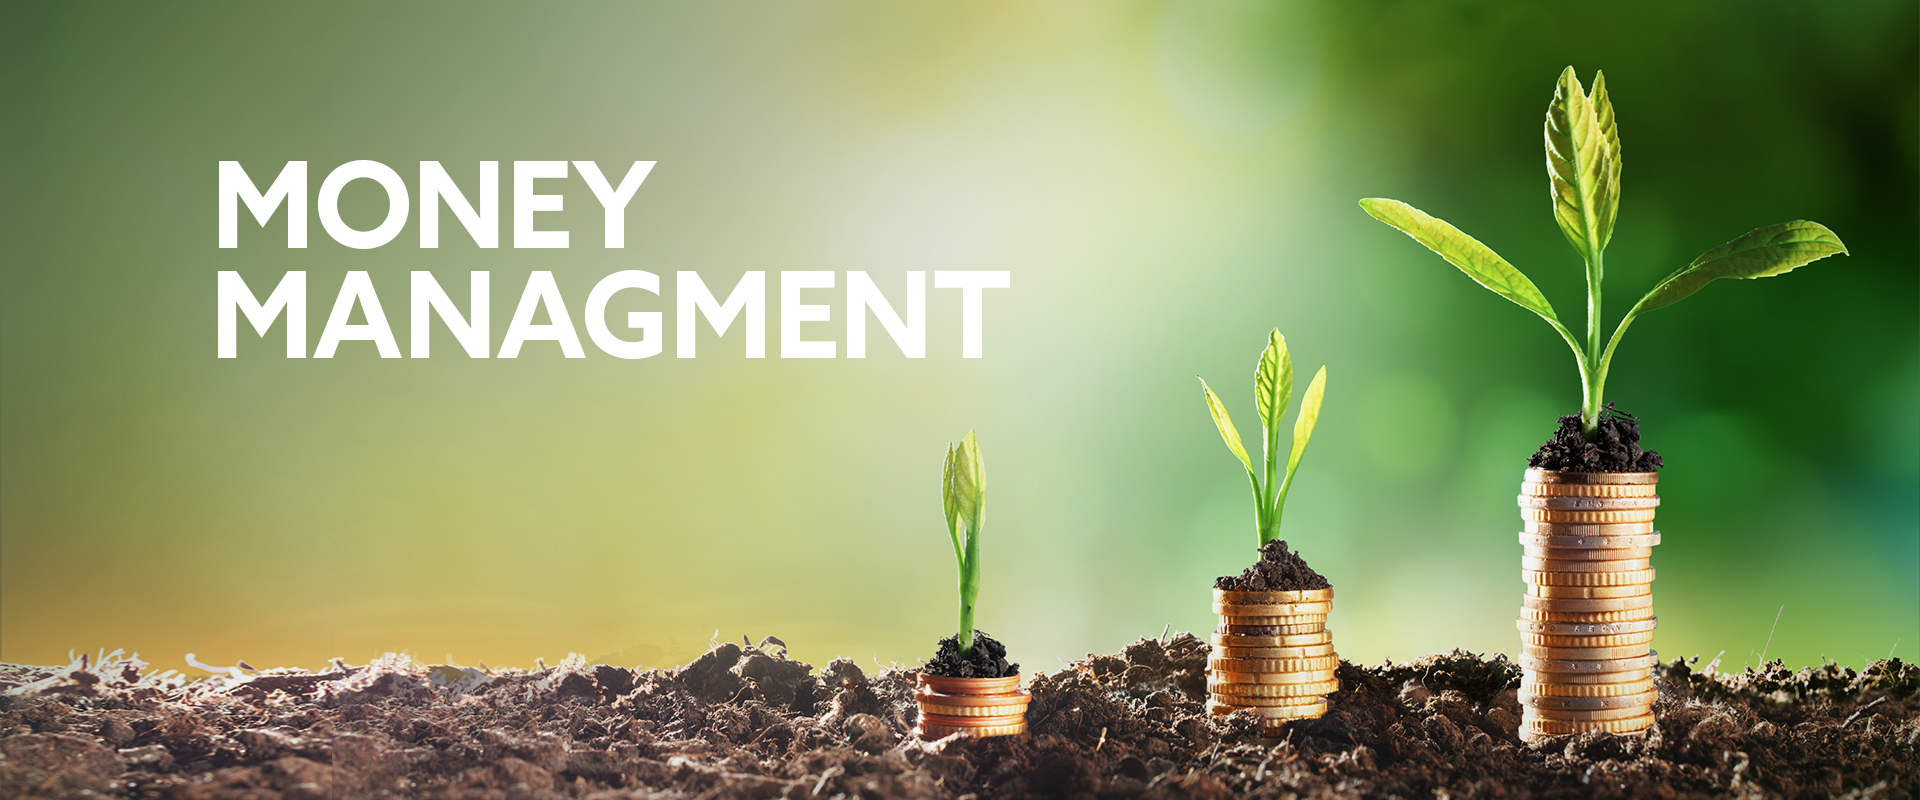
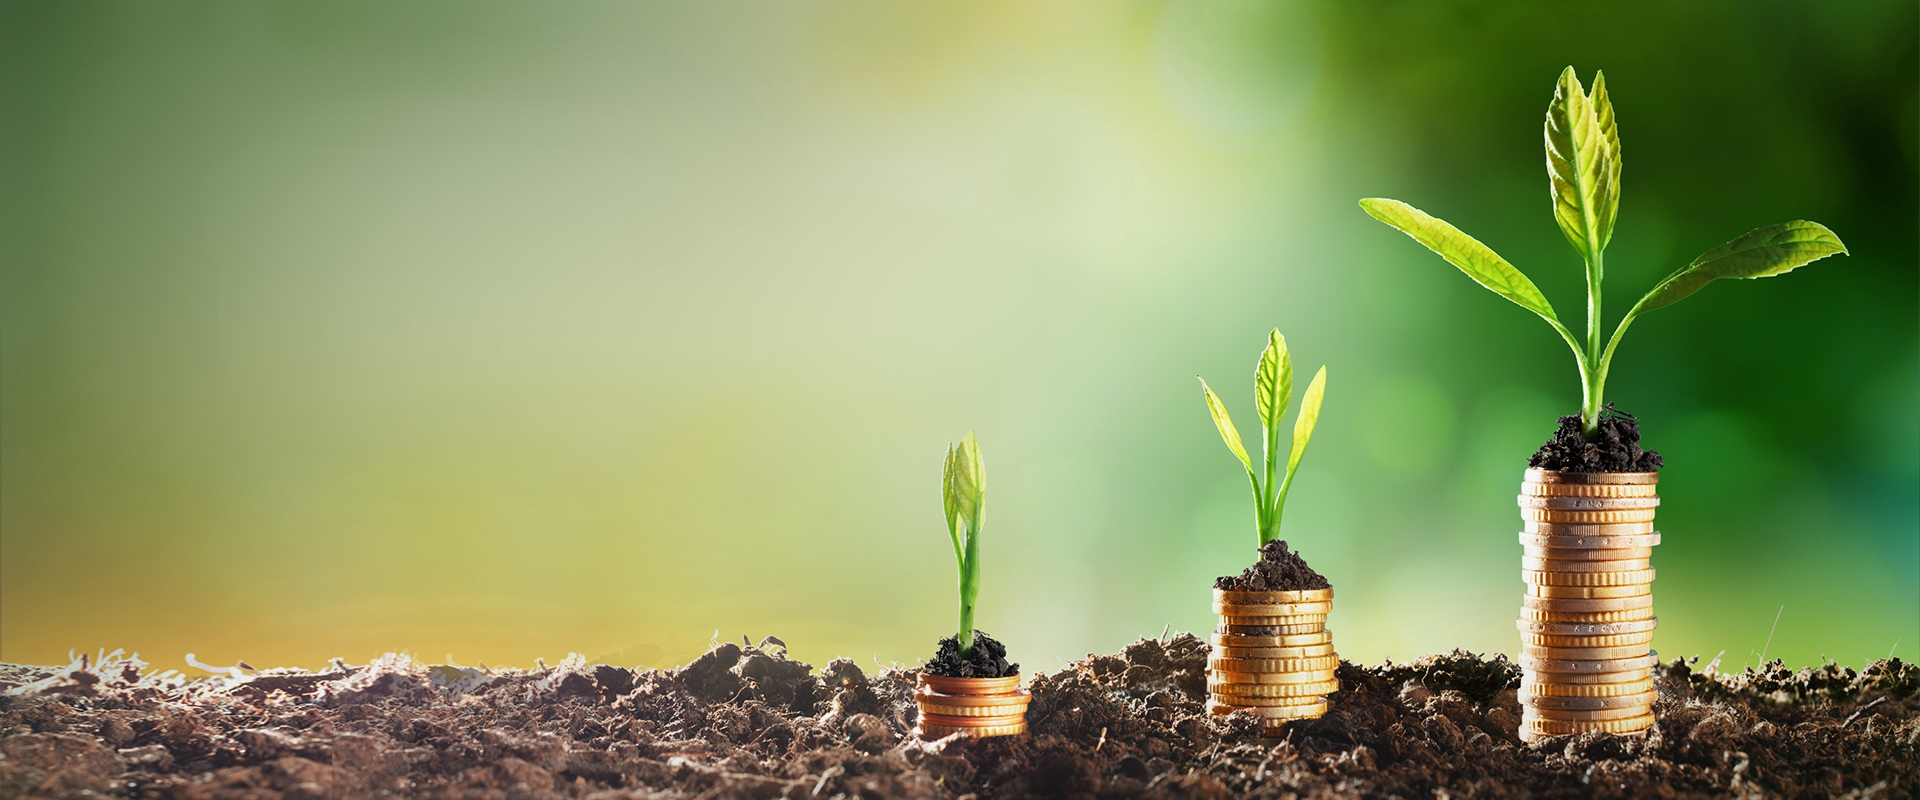
nav view, started home view

diff --git a/public/index.html b/public/index.html
@@ -1,40 +1,19 @@
 <!DOCTYPE html>
 <html lang="en">
-  <head>
-    <meta charset="utf-8">
-    <meta name="viewport" content="width=device-width, initial-scale=1, shrink-to-fit=no">
-    <meta name="theme-color" content="#000000">
-    <!--
-      manifest.json provides metadata used when your web app is added to the
-      homescreen on Android. See https://developers.google.com/web/fundamentals/engage-and-retain/web-app-manifest/
-    -->
-    <link rel="manifest" href="%PUBLIC_URL%/manifest.json">
-    <link rel="shortcut icon" href="%PUBLIC_URL%/favicon.ico">
-    <!--
-      Notice the use of %PUBLIC_URL% in the tags above.
-      It will be replaced with the URL of the `public` folder during the build.
-      Only files inside the `public` folder can be referenced from the HTML.
 
-      Unlike "/favicon.ico" or "favicon.ico", "%PUBLIC_URL%/favicon.ico" will
-      work correctly both with client-side routing and a non-root public URL.
-      Learn how to configure a non-root public URL by running `npm run build`.
-    -->
-    <title>React App</title>
-  </head>
-  <body>
-    <noscript>
-      You need to enable JavaScript to run this app.
-    </noscript>
-    <div id="root"></div>
-    <!--
-      This HTML file is a template.
-      If you open it directly in the browser, you will see an empty page.
+<head>
+  <meta charset="utf-8">
+  <meta name="viewport" content="width=device-width, initial-scale=1, shrink-to-fit=no">
+  <meta name="theme-color" content="#000000">
 
-      You can add webfonts, meta tags, or analytics to this file.
-      The build step will place the bundled scripts into the <body> tag.
+  <link rel="manifest" href="%PUBLIC_URL%/manifest.json">
+  <link rel="shortcut icon" href="%PUBLIC_URL%/favicon.png">
 
-      To begin the development, run `npm start` or `yarn start`.
-      To create a production bundle, use `npm run build` or `yarn build`.
-    -->
-  </body>
+  <title>Specie: Money Management</title>
+</head>
+
+<body>
+  <div id="root"></div>
+</body>
+
 </html>

diff --git a/src/components/Landing/Landing.js b/src/components/Landing/Landing.js
@@ -1,0 +1,36 @@
+import React, { Component } from 'react';
+import './landing.css';
+import img from '../../assets/money-management.jpg';
+
+export default class Landing extends Component {
+  render() {
+    return (
+      <div>
+        <img className="home-img" src={img} alt="broken" />
+        <section className="features">
+          <div className="feature-box">
+            <h3>Budgets? You betcha</h3>
+            <p>
+              Easily create budgets, and see our suggestions based on your
+              spending.
+            </p>
+          </div>
+          <div className="feature-box">
+            <h3>Bills? Done</h3>
+            <p>
+              Track your bills like never before. Get alerts when it's time to
+              pay so you never miss one.
+            </p>
+          </div>
+          <div className="feature-box">
+            <h3>Credit score? Checked</h3>
+            <p>
+              Find out yours for free and get tips to help improve it, no credit
+              card required.
+            </p>
+          </div>
+        </section>
+      </div>
+    );
+  }
+}

diff --git a/src/App.css b/src/App.css
@@ -1,9 +1,10 @@
 .nav {
+  display: flex;
+  align-items: center;
+  justify-content: space-between;
   width: 100%;
-  height: 50px;
-  position: fixed;
-  top: 0;
-  background-color: black;
+  height: 60px;
+  background-color: #1b1b1b;
 }
 
 .logo {
@@ -12,4 +13,30 @@
   background: url('./assets/white.png') center no-repeat;
   background-size: contain;
   margin: 0 15px;
+}
+
+button {
+  width: 90px;
+  height: 25px;
+  font-size: 12px;
+  font-weight: bold;
+  text-transform: uppercase;
+  color: white;
+  border-radius: 2px;
+  background-color: #fd8a10;
+  cursor: pointer;
+  transition: all 0.2s ease-in-out;
+}
+
+button:focus {
+  outline: 0;
+}
+
+button:hover {
+  background-color: hsl(31, 89%, 38%);
+}
+
+button:active {
+  outline: none;
+  border: none;
 }

diff --git a/server/index.js b/server/index.js
@@ -12,16 +12,18 @@ app.use(json());
 app.use(cors());
 
 if (process.env.NODE_ENV === 'production') {
-  console.log('PRODUCTION MODE');
+  console.log('----PRODUCTION MODE----');
   app.use(express.static(path.join(__dirname, '../build')));
+} else {
+  console.log('----DEVELOPMENT MODE----');
+  app.use(express.static(path.join(__dirname, '../public')));
+}
 
+if (process.env.NODE_ENV === 'production') {
   app.get('*', (req, res) => {
     res.sendFile(path.resolve(__dirname, '../build/index.js'));
   });
 } else {
-  console.log('DEVELOPMENT MODE');
-  app.use(express.static(path.join(__dirname, '../public')));
-
   app.get('*', (req, res) => {
     res.sendFile(path.join(__dirname, '../public/index.html'));
   });

diff --git a/src/components/Landing/landing.css b/src/components/Landing/landing.css
@@ -1,0 +1,29 @@
+.home-img {
+  width: 100%;
+  height: auto;
+  background: center center no-repeat;
+  background-size: cover;
+}
+
+/* Features */
+.features {
+  margin: 0 auto;
+  width: 60%;
+  display: flex;
+  justify-content: space-between;
+  align-items: center;
+}
+
+.feature-box {
+  display: flex;
+  justify-content: flex-start;
+  flex-direction: column;
+  text-align: center;
+  width: 33%;
+  height: 300px;
+  padding: 30px 20px 20px 20px;
+}
+
+.feature-box:nth-child(odd) {
+  margin: 0 20px 0 20px;
+}

diff --git a/src/App.js b/src/App.js
@@ -1,5 +1,6 @@
 import React, { Component } from 'react';
 import Nav from './components/Nav/Nav.js';
+import Landing from './components/Landing/Landing';
 import './App.css';
 
 class App extends Component {
@@ -7,6 +8,7 @@ class App extends Component {
     return (
       <div>
         <Nav />
+        <Landing />
       </div>
     );
   }

diff --git a/src/components/Nav/Nav.js b/src/components/Nav/Nav.js
@@ -1,9 +1,11 @@
 import React from 'react';
+import './nav.css';
 
 export default () => {
   return (
     <div className="nav">
       <div className="logo" />
+      <button className="login">Login</button>
     </div>
   );
 };

diff --git a/src/components/Nav/nav.css b/src/components/Nav/nav.css
@@ -1,0 +1,4 @@
+button.login {
+  margin-right: 20px;
+  border: none;
+}
